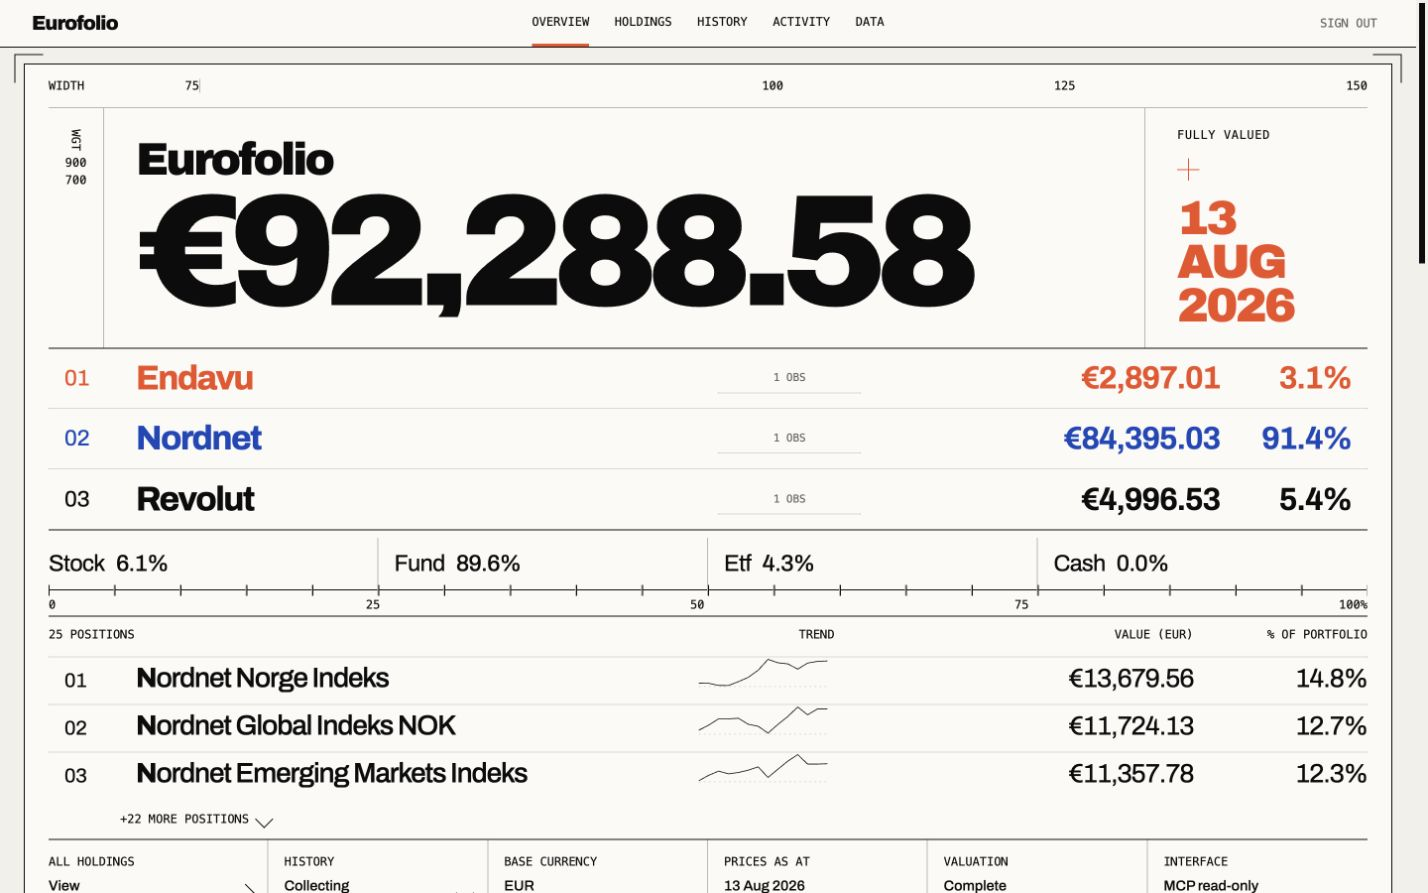
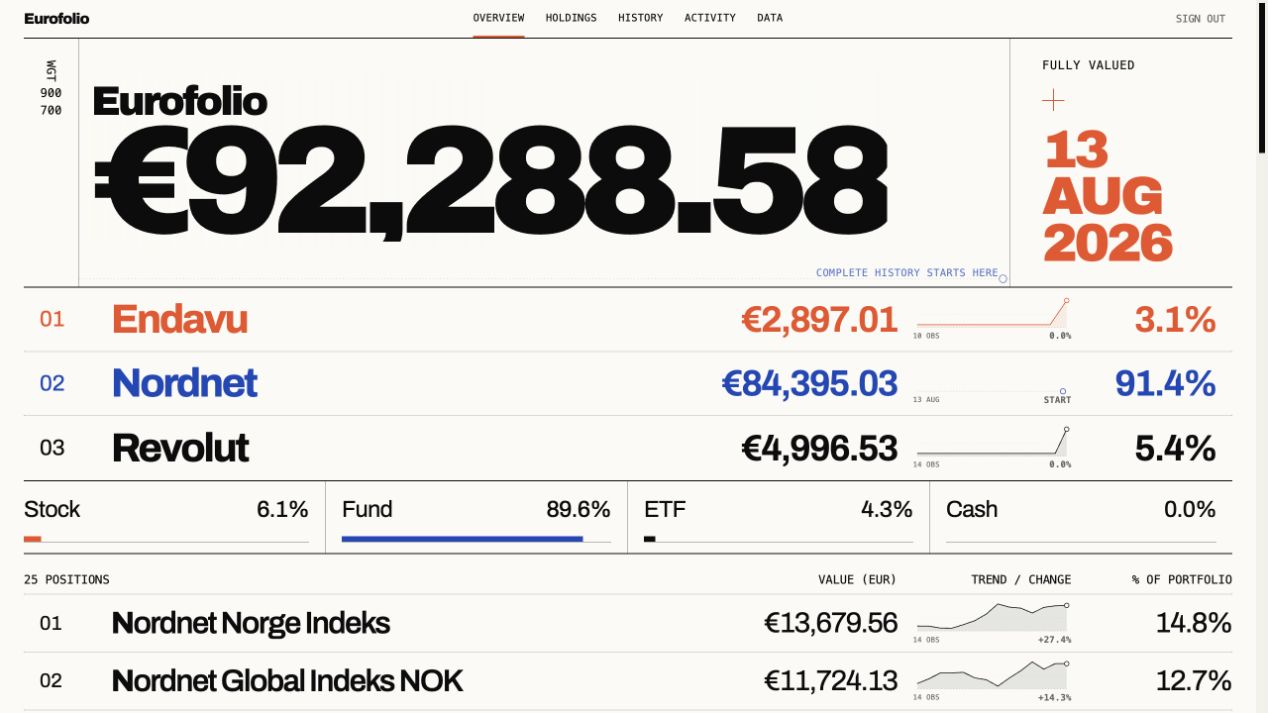
docs: record responsive register system

Changed region(s): [[0.0, 0.0, 1.0, 1.0], [0.2461, 0.5863, 0.2768, 0.6171], [0.0308, 0.864, 0.0615, 0.8948]]

diff --git a/DESIGN.md b/DESIGN.md
@@ -18,7 +18,7 @@ colors:
 typography:
   display:
     fontFamily: "Archivo, sans-serif"
-    fontSize: "clamp(9rem, 13.8vw, 13.4rem)"
+    fontSize: "clamp(5.4rem, 17cqi, 13.4rem)"
     fontWeight: 900
     lineHeight: 0.78
     letterSpacing: "-0.082em"
@@ -69,7 +69,7 @@ components:
     textColor: "{colors.registration-ink}"
     rounded: "{rounded.square}"
     padding: "0 1.5rem 2rem"
-    width: "min(calc(100% - 3rem), 96rem)"
+    width: "min(100%, 96rem)"
   sign-in-button:
     backgroundColor: "{colors.registration-ink}"
     textColor: "{colors.proof-stock}"
@@ -121,14 +121,14 @@ components:
 
 Eurofolio is a variable-type foundry proof crossed with an exchange quotation board. It is exacting, utilitarian, and typographic: portfolio figures are not content placed inside a dashboard system; exact portfolio figures are the visual system. The giant EUR total is the sole spectacle, while every supporting fact submits to exposed baselines, measurement axes, ranks, and aligned registers.
 
-The atmosphere is calm because it is disciplined, not because it is soft. Warm proof stock, registration ink, sparse signal color, crop marks, hairline rules, and miniature quotation traces create the authority of a printed working document. The same language extends without dilution across Overview, Holdings, History, Activity, and Data: each secondary register opens with a compact measured title and exactly three facts. The confirmed anti-reference is the rounded fintech KPI grid and generic AI-dashboard styling: no ornamental cards, floating modules, sidebar shell, donut chart, or decorative chrome. The one purposeful gradient is the low-contrast value-history wash behind the consolidated figure; it encodes observed progression and never decorates an empty surface.
+The atmosphere is calm because it is disciplined, not because it is soft. Warm proof stock, registration ink, sparse signal color, hairline rules, and miniature quotation traces create the authority of a printed working document. The proof sheet is deliberately unframed and has no crop corners; its compact sticky in-sheet navigation supplies the opening datum formerly carried by a WIDTH ruler. The same language extends without dilution across Overview, Holdings, History, Activity, and Data: each secondary register opens with a compact measured title and exactly three facts. The confirmed anti-reference is the rounded fintech KPI grid and generic AI-dashboard styling: no ornamental cards, floating modules, sidebar shell, donut chart, or decorative chrome. The one purposeful gradient is the low-contrast value-history wash behind the consolidated figure; it encodes observed progression and never decorates an empty surface.
 
 **Key Characteristics:**
 
 - One oversized numerical event, surrounded by dense but legible registers.
 - Warm paper and black ink with orange and cobalt used only as semantic signals.
 - Tabular numerals, tight tracking, explicit ranks, dates, provenance, and measurement marks.
-- Stored observations drawn as restrained server-rendered quotation traces, never decorative or fabricated charts.
+- Stored observations drawn as restrained server-rendered quotation traces with baselines, midlines, translucent areas, lines, endpoints, and concise observation/date/change metadata—never decorative or fabricated charts.
 - The consolidated value field may carry a pale cobalt line-and-area trace behind the number. It uses complete observations only and resolves to an explicitly labelled start point until a second complete valuation exists.
 - Flat construction: hierarchy comes from scale, rules, spacing, and alignment.
 - Desktop and phone preserve the same reading order while lower-priority percentages and axes yield first; phone adds a safe-area five-item register navigation.
@@ -149,7 +149,7 @@ The palette behaves like a two-ink proof on warm stock, with neutral rules doing
 
 - **Proof Stock** (`proof-stock`): the main sheet and authentication surface.
 - **Surrounding Paper** (`surrounding-paper`): the page outside the proof sheet and scrollbar track.
-- **Registration Ink** (`registration-ink`): primary copy, values, borders, crop marks, and the Revolut custody line.
+- **Registration Ink** (`registration-ink`): primary copy, values, section rules, SVG chevrons, and the Revolut custody line.
 - **Register Line** (`register-line`): measurement ticks, column divisions, and dotted row separators.
 - **Baseline Soft** (`baseline-soft`): faint historical baselines and quiet grid structure.
 - **Annotation Dim** (`annotation-dim`): secondary facts, metadata, inactive controls, and explanatory copy.
@@ -172,7 +172,7 @@ The palette behaves like a two-ink proof on warm stock, with neutral rules doing
 
 ### Hierarchy
 
-- **Display** (900, `display`, 0.78 line-height): the consolidated EUR total only; it uses a `clamp(9rem, 13.8vw, 13.4rem)` desktop range, then steps to 6rem at the intermediate breakpoint and 2.8rem on phone.
+- **Display** (900, `display`, 0.78 line-height): the consolidated EUR total only; its lockup establishes an inline-size container and sizes the total with `clamp(5.4rem, 17cqi, 13.4rem)` so the numeral responds to its actual column rather than the viewport and does not clip against the date gutter. Phone uses a deliberate 2.8rem override, stepping to 2.55rem at 360px.
 - **Page Title** (900, `page-title`, 0.9 line-height): the secondary Holdings, History, Activity, and Data headings; it steps from 4.8rem to 4rem at the intermediate breakpoint and 3rem on phone.
 - **Headline** (700, `headline`, 1 line-height): history and holdings section headings.
 - **Title** (750, `title`, 1 line-height): prominent account names and major register labels.
@@ -189,13 +189,13 @@ The palette behaves like a two-ink proof on warm stock, with neutral rules doing
 
 ## Layout
 
-The primary canvas is a centered proof sheet capped at 96rem, inset 1.5rem from the viewport and framed by a one-pixel Registration Ink rule. A sticky three-column top bar holds brand, centered five-item navigation, and session action. Inside the sheet, sections connect vertically without card gaps: solid hairlines define major boundaries, dotted lines divide register rows, and fixed rank/value gutters make every number comparable.
+The primary canvas is a centered, unframed proof sheet capped at 96rem and padded 1.5rem on desktop. A compact 2.45rem sticky in-sheet register replaces the decorative WIDTH ruler and holds the brand, centered five-item navigation, and session action. Inside the sheet, sections connect vertically without card gaps: solid hairlines define major boundaries, dotted lines divide register rows, and fixed rank/value gutters make every number comparable.
 
-The opening value field is a three-column instrument with a 15.65rem minimum height: a 3.5rem weight axis, a fluid value lockup padded 0.9rem 1rem 1rem 0.75rem, and a 14rem valuation-date gutter. Its wordmark is 3.55rem with 0.92 line-height and -0.06em tracking; the hero total uses `clamp(9rem, 13.8vw, 13.4rem)` with 0.78 line-height and -0.082em tracking; the valuation date is 3.35rem with 0.88 line-height. Desktop account rows read rank, name, value, trace, share, with 2.55rem account names and 2.3rem values. Desktop leader rows use the same rank, name, value, trace, share order, with 1.95rem names and 1.8rem values. Both registers retain a 4.5rem rank column, fluid name column, right-aligned value and share columns, and a quotation-trace column. The four-cell allocation register replaces ornamental measurement ticks with current-percentage micro bars; Stock is Signal Orange, Fund is Custody Cobalt, ETF is Registration Ink, and Cash is Annotation Dim. The 6-cell fact strip continues the horizontal divisions. Major below-fold sections begin after a 3rem interval.
+The opening value field is a three-column instrument with a 15.65rem minimum height: a 3.5rem weight axis, a fluid value lockup padded 0.9rem 1rem 1rem 0.75rem, and a 14rem valuation-date gutter. The lockup is an inline-size container; its wordmark uses `clamp(2.4rem, 4.5cqi, 3.55rem)` and the hero total uses `clamp(5.4rem, 17cqi, 13.4rem)`, keeping both proportional to the space left after fixed gutters. The valuation date is 3.35rem with 0.88 line-height. Account and leader registers share one rank → name → value → trace → share grid: a 4.5rem rank column, fluid name column, right-aligned value and share columns, a 10rem quotation-trace column, and 1rem gaps. Type scale changes by register, but column geometry does not. The four-cell allocation register replaces ornamental measurement ticks with current-percentage micro bars; Stock is Signal Orange, Fund is Custody Cobalt, ETF is Registration Ink, and Cash is Annotation Dim. The 6-cell fact strip continues the horizontal divisions. Major below-fold sections begin after a 3rem interval.
 
-Secondary pages reuse the width axis, then place a compact page title beside exactly three fact cells. The heading is 12rem high on wide screens; its facts occupy three equal ruled columns. Holdings, History, Activity, and Data then continue as connected tables, ledgers, filters, status stamps, or split registers on the same stock rather than becoming separate panels.
+Secondary pages begin immediately below the same compact sticky navigation, then place a compact page title beside exactly three fact cells. The heading is 12rem high on wide screens; its facts occupy three equal ruled columns. Holdings, History, Activity, and Data then continue as connected tables, ledgers, filters, status stamps, or split registers on the same stock rather than becoming separate panels.
 
-At 1100px, type and fixed gutters contract while the structure remains intact. At 760px, the sheet becomes edge-to-edge, crop marks and the weight axis disappear, the date gutter narrows to 6.5rem, top navigation hides, allocation and overview facts become two-column grids, account percentages and position shares yield, and the Holdings, Activity, and instrument registers become disclosure rows. Narrow secondary ledgers remain ruled and may scroll within their register. Secondary titles stack above their three facts: the title occupies a 7rem field at 3rem, followed by a 4.5rem fact strip. A fixed five-item bottom register respects `env(safe-area-inset-bottom)`, and footer clearance prevents overlap. At 360px, the value and date type contract once more. The page retains a 20rem minimum width and must not scroll horizontally at 390px.
+At 1100px, type and fixed gutters contract while the structure remains intact. At 760px, the sheet becomes edge-to-edge, the weight axis disappears, the date gutter narrows to 6.5rem, top destinations hide, and account and leader registers reflow into two-row summaries: rank, name, and value occupy row one; the quotation trace and its metadata span row two; share yields. Allocation and overview facts become two-column grids, while Holdings, Activity, and instrument registers become disclosure rows. Narrow secondary ledgers remain ruled and may scroll within their register. Secondary titles stack above their three facts: the title occupies a 7rem field at 3rem, followed by a 4.5rem fact strip. The same five destinations move to a fixed bottom register that respects `env(safe-area-inset-bottom)`, and footer clearance prevents overlap. At 360px, the value and date type contract once more. The page retains a 20rem minimum width and must not scroll horizontally at 390px.
 
 **The Register Continuity Rule.** Sections share edges and rules; do not separate related data into floating containers.
 
@@ -205,13 +205,13 @@ At 1100px, type and fixed gutters contract while the structure remains intact. A
 
 ## Elevation & Depth
 
-The system is flat. It uses no box shadows, translucent blur, or lifted surfaces. Depth is conveyed by the contrast between Surrounding Paper and Proof Stock, the framed sheet, sticky top bar, crop marks, line weights, and the hierarchy of typographic scale. Its sole gradient is functional: the consolidated value field fades a pale vertical Custody Cobalt history wash toward Proof Stock beneath the hero number.
+The system is flat. It uses no box shadows, translucent blur, lifted surfaces, or perimeter frame. Depth is conveyed by the contrast between Surrounding Paper and Proof Stock, the sticky navigation, line weights, and the hierarchy of typographic scale. Its sole gradient is functional: the consolidated value field fades a pale vertical Custody Cobalt history wash toward Proof Stock beneath the hero number.
 
 **The Flat Proof Rule.** Surfaces remain on one physical plane; hierarchy is earned by rules, scale, spacing, and alignment, never simulated elevation.
 
 ## Shapes
 
-The form language is square, ruled, and mechanically registered. Containers, controls, fields, and navigation have no corner radius. One-pixel solid borders frame sheets and section boundaries; one-pixel dotted rules separate rows. L-shaped crop marks extend beyond the proof-sheet frame, crosses mark valuation coordinates, and right-angle line icons provide directional cues. Circles are reserved for source-status indicators and observed trace points, where the shape has explicit state meaning.
+The form language is square, ruled, and mechanically registered. Containers, controls, fields, and navigation have no corner radius. The proof sheet has neither a perimeter border nor crop corners; one-pixel solid borders mark section boundaries and one-pixel dotted rules separate rows. Crosses mark valuation coordinates, and directional cues are crisp inline SVG chevrons with open stroked paths—never font glyph arrows. Circles are reserved for source-status indicators and observed trace points, where the shape has explicit state meaning.
 
 **The Square Register Rule.** Do not round structural surfaces or controls. Reserve the 50% radius for status dots and observed trace points.
 
@@ -231,7 +231,7 @@ Components are measured and exact. Their identity comes from alignment, typograp
 - **Corner Style:** square (`square`).
 - **Background:** Proof Stock for the primary quotation sheet and login sheet.
 - **Shadow Strategy:** none; refer to the Flat Proof Rule.
-- **Border:** one-pixel Registration Ink frame with lighter internal register lines.
+- **Border:** no perimeter frame on the product proof sheet; one-pixel Registration Ink section rules and lighter internal register lines provide structure. The authentication sheet remains explicitly bordered.
 - **Internal Padding:** 1.5rem horizontal and 2rem bottom on the desktop quotation sheet; 0.85rem horizontal on phone.
 
 ### Inputs / Fields
@@ -242,11 +242,11 @@ Components are measured and exact. Their identity comes from alignment, typograp
 
 ### Navigation
 
-The desktop top navigation exposes Overview, Holdings, History, Activity, and Data in 0.75rem uppercase monospace labels inside the 3rem sticky bar. The active page receives a 3px Signal Orange underline; inactive links remain Registration Ink. Below 760px those same five destinations move to a fixed 3.2rem bottom register on Proof Stock; equal cells use vertical rules, the active item returns to Registration Ink with an inset orange top line, and bottom padding follows the device safe area. The brand and sign-out action remain in the top bar.
+The desktop top navigation replaces the old WIDTH ruler and exposes Overview, Holdings, History, Activity, and Data in compact uppercase monospace labels inside a 2.45rem sticky in-sheet bar. The active page receives a 2px Signal Orange underline; inactive links remain Registration Ink. Below 760px those same five destinations move to a fixed 3.2rem bottom register on Proof Stock; equal cells use vertical rules, the active item returns to Registration Ink with an inset orange top line, and bottom padding follows the device safe area. The brand and sign-out action remain in the top bar.
 
 ### Value Field
 
-The value field is the signature component: a 15.65rem-minimum measurement instrument where the axis, the 900-weight EUR total, and a stacked orange date/status gutter share one ruled baseline. The lockup uses 0.9rem 1rem 1rem 0.75rem padding; its 3.55rem wordmark uses 0.92 line-height and -0.06em tracking, its total uses `clamp(9rem, 13.8vw, 13.4rem)` with 0.78 line-height and -0.082em tracking, and its 3.35rem valuation date uses 0.88 line-height. Behind the value, a server-rendered line uses complete monthly observations only; with two or more points it carries a pale vertical Custody Cobalt area wash and a labelled observation count, while one point resolves to an open endpoint on the baseline labelled `Complete history starts here`. A quiet Proof Stock fade behind the copy protects numeral contrast without hiding the trace. The field has a single 380ms entrance using a firm custom easing curve and respects reduced-motion preferences.
+The value field is the signature component: a 15.65rem-minimum measurement instrument where the axis, the 900-weight EUR total, and a stacked orange date/status gutter share one ruled baseline. The lockup uses 0.9rem 1rem 1rem 0.75rem padding and establishes an inline-size container; the wordmark uses `clamp(2.4rem, 4.5cqi, 3.55rem)` and the total uses `clamp(5.4rem, 17cqi, 13.4rem)` with 0.78 line-height and -0.082em tracking. Behind the value, a server-rendered line uses complete monthly observations only; with two or more points it carries a pale vertical Custody Cobalt area wash and a labelled observation count, while one point resolves to an open endpoint on the baseline labelled `Complete history starts here`. A quiet Proof Stock fade behind the copy protects numeral contrast without hiding the trace. The field has a single 380ms entrance using a firm custom easing curve and respects reduced-motion preferences.
 
 ### Secondary Page Heading
 
@@ -254,7 +254,11 @@ Holdings, History, Activity, and Data begin with the shared measurement axis fol
 
 ### Quotation Trace
 
-The quotation trace is a server-rendered 128 × 30 SVG built only from stored finite observations. A 1.6px open polyline sits on a dotted Baseline Soft rule. Security and position traces use Registration Ink; account traces inherit custody color. One valid observation is plotted as an open start dot on the baseline; zero observations become an explicit `No trace` label. The accessible name reports the observation count and, when a line exists, its direction; a trace never interpolates missing history or treats it as zero.
+The quotation trace is a server-rendered 160 × 34 SVG built only from stored finite observations. Two or more points render a dotted Register Line baseline, a quieter dotted Baseline Soft midline, a 9%-opacity area, a 1.55px square-jointed line, and an open endpoint. The metadata row shows observation count and a signed percentage change; when only one non-zero comparison exists it says `New`. One valid observation is plotted as an open endpoint on the baseline with its observation date and `Start`; zero observations become an explicit `No trace` label. Security and position traces use Registration Ink; account traces inherit custody color. The accessible name reports count, date range, and direction, and a trace never interpolates missing history or treats it as zero.
+
+### Directional Chevrons
+
+Right and down cues are inline 16 × 16 SVGs with unfilled, square-capped, miter-joined paths. They inherit the surrounding ink, turn Signal Orange with the associated link, and remain decorative to assistive technology because the adjacent text names the destination.
 
 ### Allocation Micro Bar
 
@@ -262,7 +266,11 @@ Each asset-class cell pairs its exact percentage with a square horizontal bar sc
 
 ### Account and Position Registers
 
-Desktop account and leader rows occupy stable rank → name → value → trace → share columns with dotted row separators. Account names are 2.55rem and account values are 2.3rem; leader names are 1.95rem and leader values are 1.8rem. Custodian color is applied to whole account rows and their traces; security lines remain neutral except for orange ranks and state indicators. Desktop holdings use a dense table. Phone holdings use native disclosure rows in the name/value → trace → disclosure hierarchy, with trace height contracting from 1.9rem to approximately 1.35rem.
+Desktop account and leader rows use the same stable rank → name → value → trace → share grid with dotted row separators; only their type scale and row height differ. Account names are 2.55rem and values are 2.3rem; leader names are 1.95rem and values are 1.8rem. Custodian color is applied to whole account rows and their traces; security lines remain neutral except for orange ranks and state indicators. On phone, both registers become two-row summaries: rank/name/value first, then the full-width trace with observation metadata; share is removed. Desktop holdings use a dense table, while phone holdings use native disclosure rows in the name/value → trace → disclosure hierarchy.
+
+### History Registers
+
+Account histories expose every stored observation that has a finite value for that account, even when another account makes the same portfolio snapshot partial. The consolidated history, consolidated chart, and hero backdrop remain complete-only: they filter to observations where every required holding, price, and FX input is available. Snapshot rows may show partial status and account values, but a partial consolidated total is rendered as an em dash rather than a misleading aggregate.
 
 ### Fact Strip
 
@@ -281,11 +289,12 @@ The Data page is an evidence register, not an administration console. A square r
 ### Do:
 
 - **Do** make exact values, dates, ranks, completeness, and provenance visible at the point of use.
-- **Do** use Proof Stock, Registration Ink, hairlines, crop marks, and aligned baselines to construct hierarchy.
+- **Do** use Proof Stock, Registration Ink, hairlines, and aligned baselines to construct hierarchy on an unframed sheet.
 - **Do** keep the giant EUR total as the sole typographic spectacle.
 - **Do** preserve tabular lining numerals and right alignment for comparable financial values.
 - **Do** preserve the desktop-to-phone reading order and let secondary percentages and axes yield first.
-- **Do** use stored observations for traces, neutral ink for securities, and custody color for account histories; plot one observation as a start point and label a genuinely empty trace `No trace`.
+- **Do** give multi-point traces a baseline, midline, translucent area, line, endpoint, and observation/change metadata; show one observation with its date and `Start`, use `New` when only one non-zero comparison exists, and label a genuinely empty trace `No trace`.
+- **Do** expose account-specific finite observations while keeping consolidated totals and charts complete-only.
 - **Do** open every secondary register with one compact page title and exactly three factual cells.
 - **Do** keep Activity filtering and Data provenance read-only; portfolio changes remain MCP-only.
 - **Do** keep interactions keyboard-visible and reduce the entrance motion when the user requests reduced motion.
@@ -300,3 +309,4 @@ The Data page is an evidence register, not an administration console. A square r
 - **Don't** fabricate quotation points, smooth across missing history, or substitute zero for absent observations.
 - **Don't** turn filters, provenance, refresh status, or disclosure rows into mutation affordances.
 - **Don't** break register alignment or allow the phone layout to overflow horizontally.
+- **Don't** restore a WIDTH ruler, perimeter frame, crop corners, or font-glyph arrows to the product sheet.
